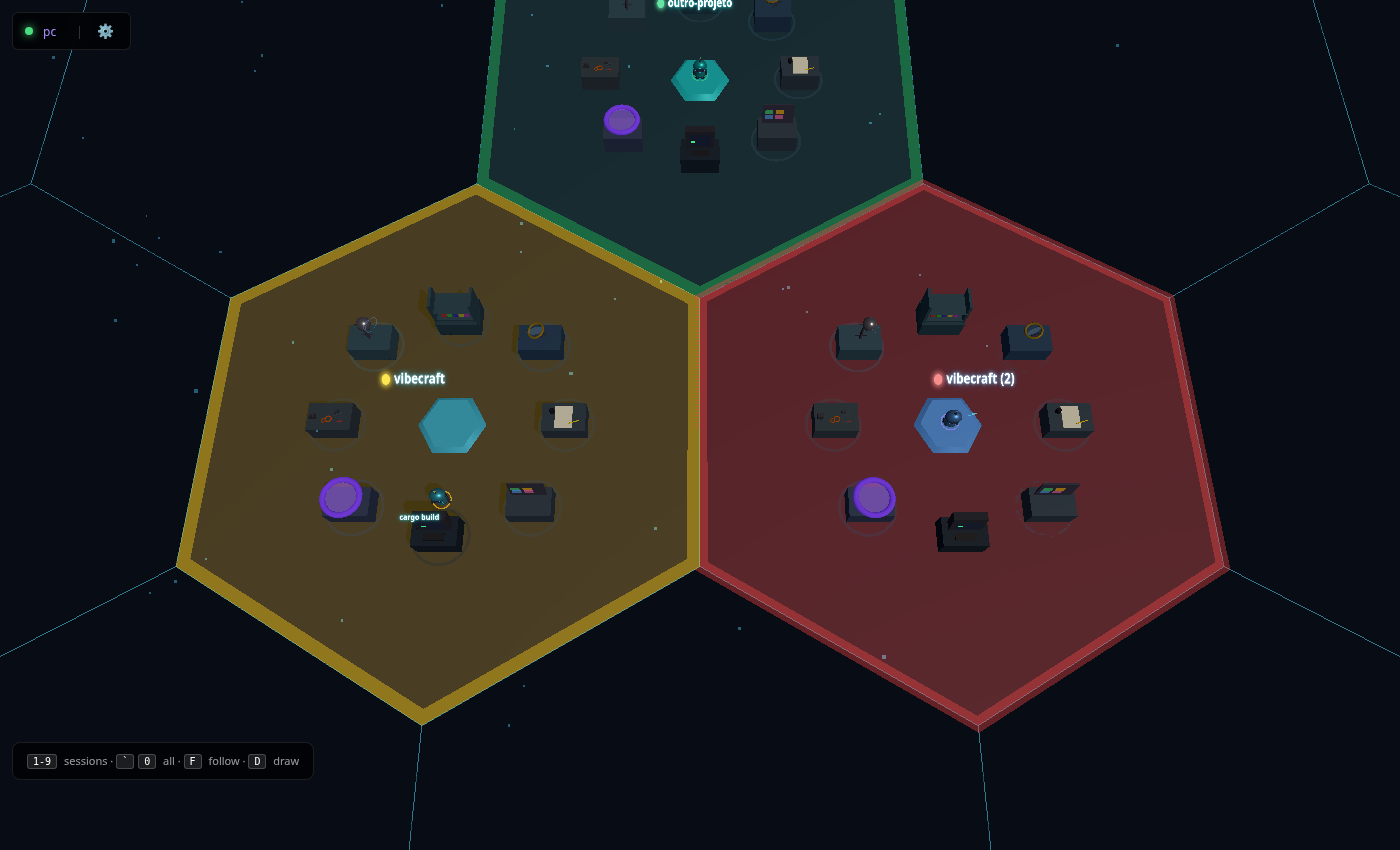
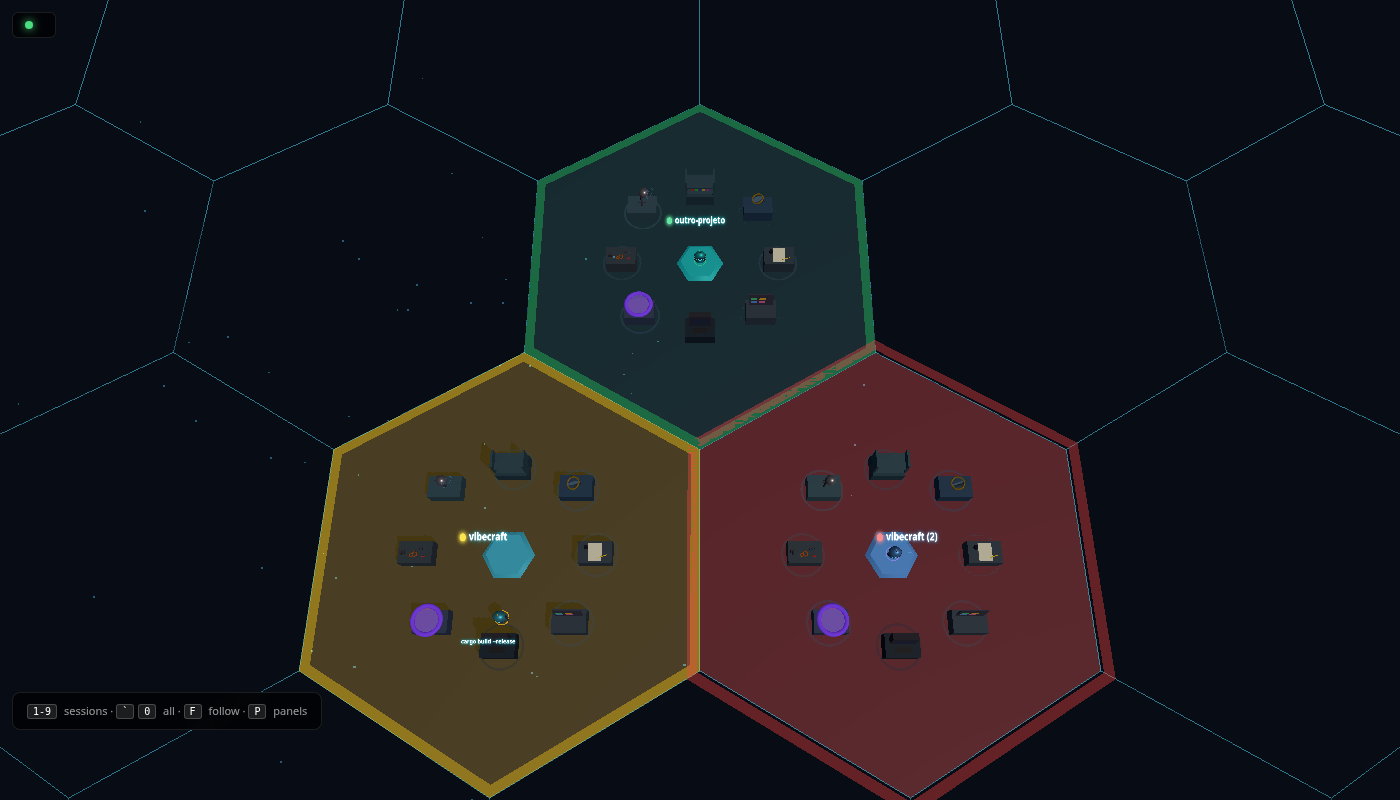
README: launcher, power button, security, and a new screenshot

diff --git a/README.md b/README.md
@@ -34,13 +34,29 @@ never your prompts, Claude's replies, tool output or file contents.
 ```bash
 deno task build                                 # frontend (dist/) + Rust binaries
 rust/target/release/vibecraft-server setup      # install the hook into ~/.claude/settings.json
-rust/target/release/vibecraft-server            # start the server
+./vibecraft.sh                                  # start the server and open the monitor
 ```
 
-Open http://localhost:4003 and use Claude Code in your terminals as usual.
-Sessions already running pick up the hook after a restart.
+Use Claude Code in your terminals as usual. Sessions already running pick up
+the hook after a restart.
 
 `vibecraft-server uninstall` removes the hook (your data in `~/.vibecraft/data` is kept).
+
+## Starting and stopping
+
+`./vibecraft.sh` starts the server in the background (once: running it again
+just opens the page) and opens http://localhost:4003. Its first run adds
+**Vibecraft** to your applications menu, so afterwards you can start it with a
+click or pin it to the dock. The server keeps running when the terminal is
+closed; its log is `~/.vibecraft/server.log`.
+
+To turn it off, use the ⏻ button next to the connection light, or
+`./vibecraft.sh stop`. Open pages show "Vibecraft is off" and reconnect by
+themselves when it starts again. Nothing is lost meanwhile: the hook keeps
+recording to `~/.vibecraft/data/events.jsonl`, and the page shows the last 30
+minutes when the server is back.
+
+To run it in the foreground instead: `rust/target/release/vibecraft-server`.
 
 ## Keyboard
 
@@ -60,10 +76,21 @@ Environment variables of `vibecraft-server`, all optional:
 | Variable | Default | |
 |---|---|---|
 | `VIBECRAFT_PORT` | 4003 | HTTP and WebSocket port |
-| `VIBECRAFT_HOST` | 127.0.0.1 | Bind address (keep it local: events carry your prompts) |
+| `VIBECRAFT_HOST` | 127.0.0.1 | Bind address (keep it local, see Security) |
 | `VIBECRAFT_EVENTS_FILE` | `~/.vibecraft/data/events.jsonl` | Event log written by the hook |
 | `VIBECRAFT_MAX_EVENTS` | 1000 | Events kept in memory |
 | `VIBECRAFT_DIST_DIR` | `dist/` next to the repo | Built frontend |
+
+## Security
+
+The monitor is only for your own machine:
+
+- The server listens on 127.0.0.1, so other devices on your network can't reach it.
+- Requests must address it as `localhost` or `127.0.0.1` (the `Host` header),
+  which stops DNS rebinding: a website pointing its own domain at 127.0.0.1.
+- Requests that a browser marks as coming from another site (`Origin`) are
+  refused, so a page you visit can't post fake events or turn the server off.
+  The WebSocket only accepts the page the server itself serves.
 
 ## Development
 
